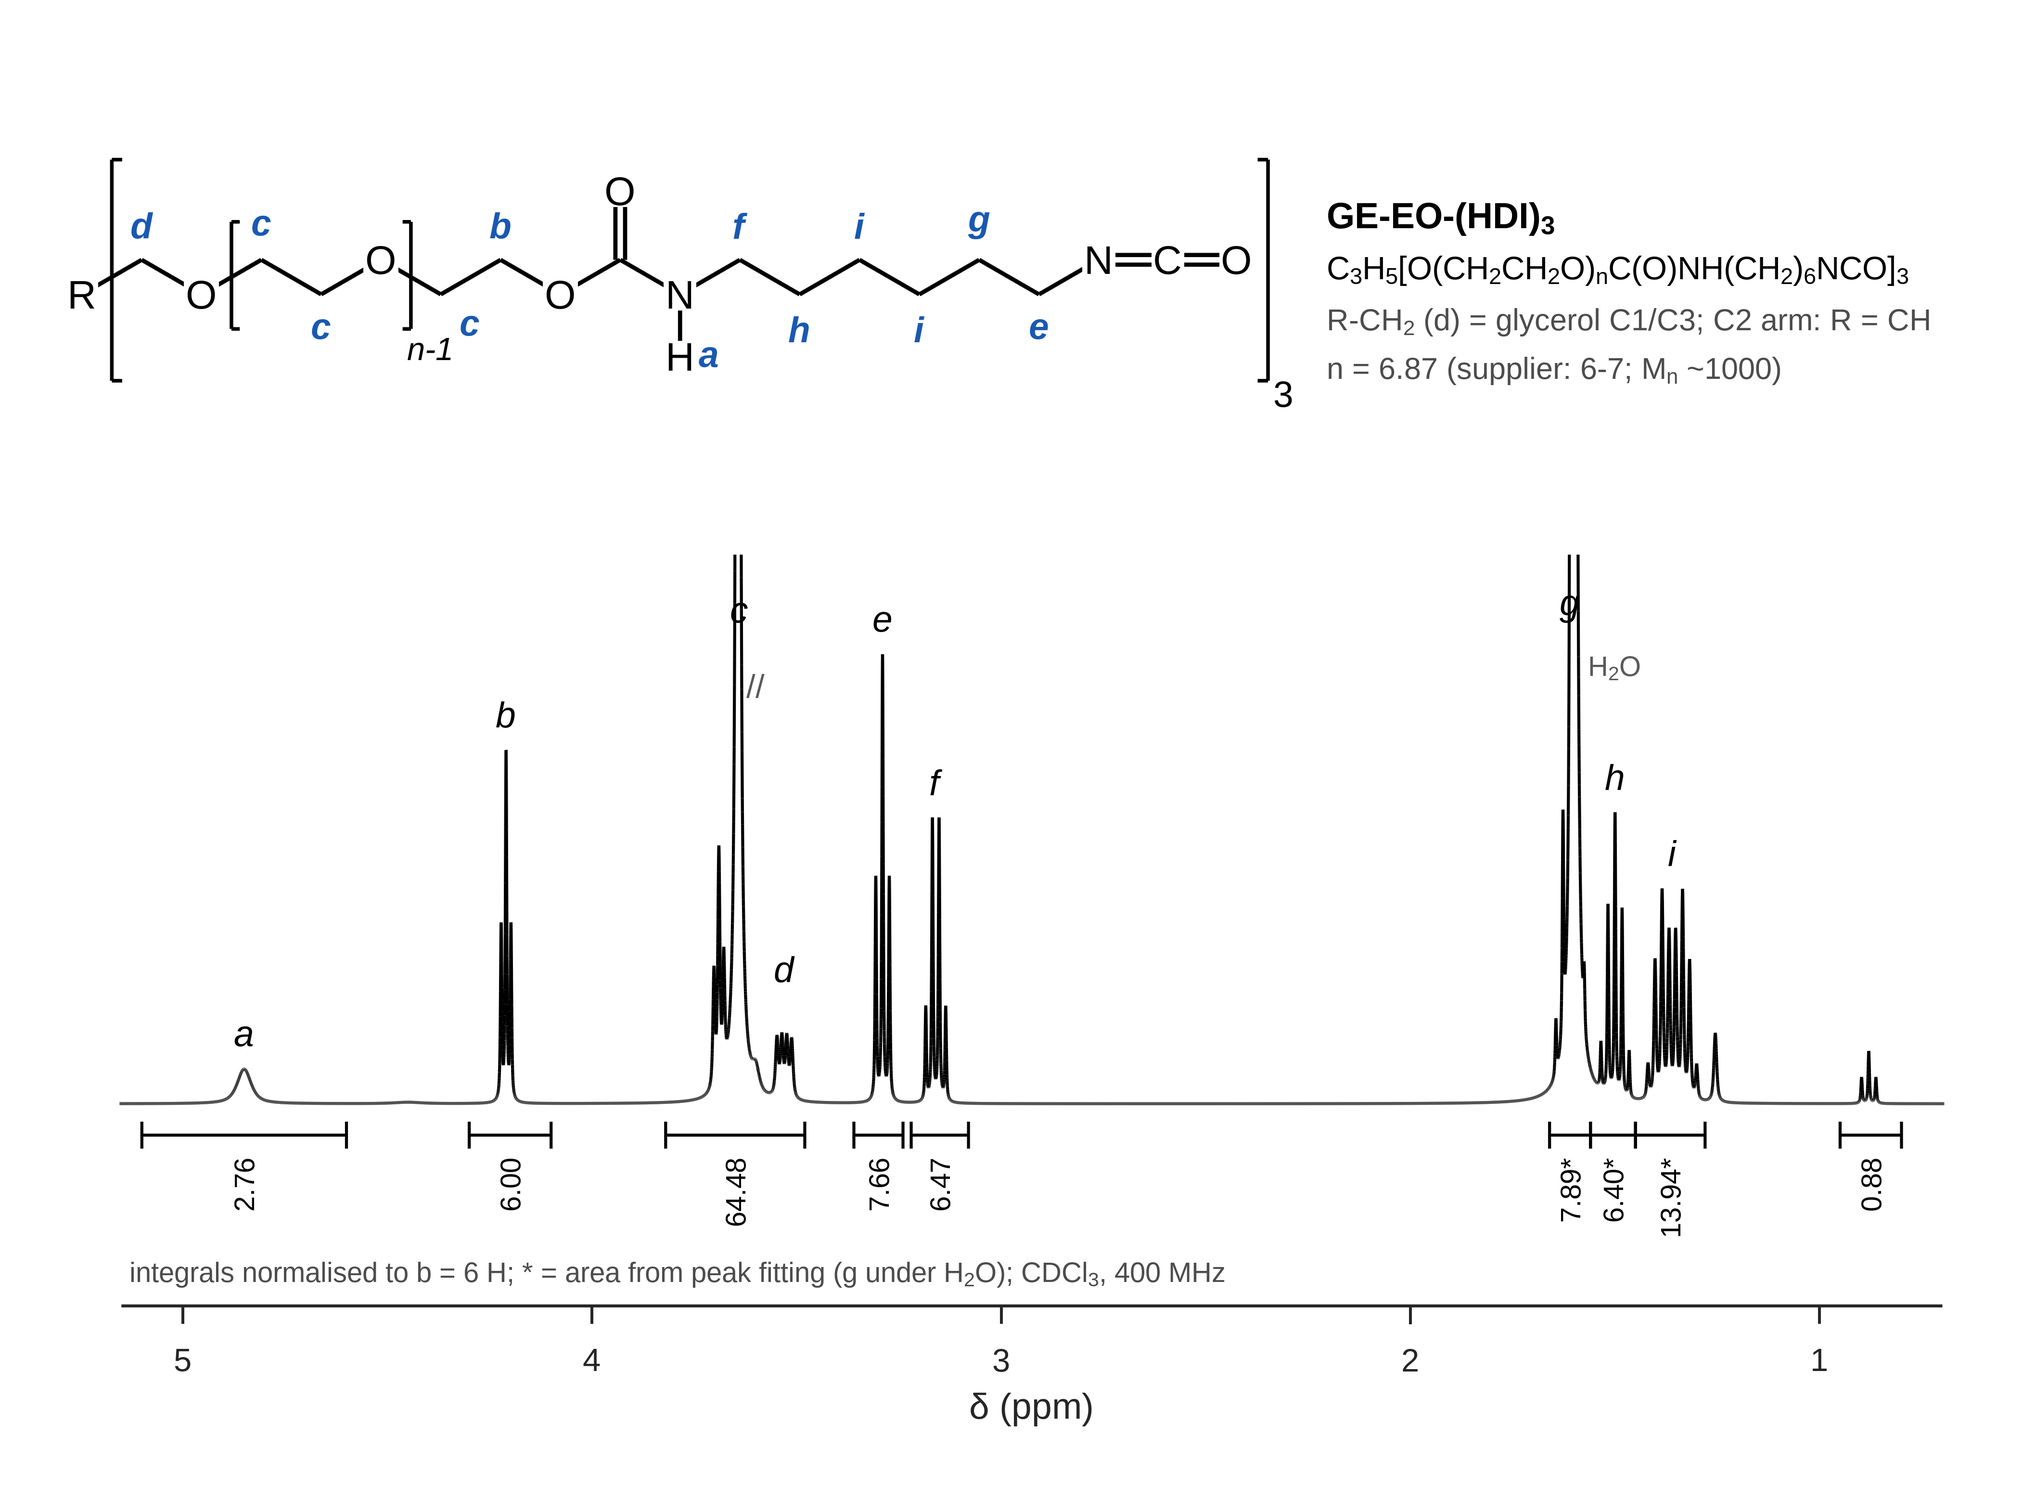
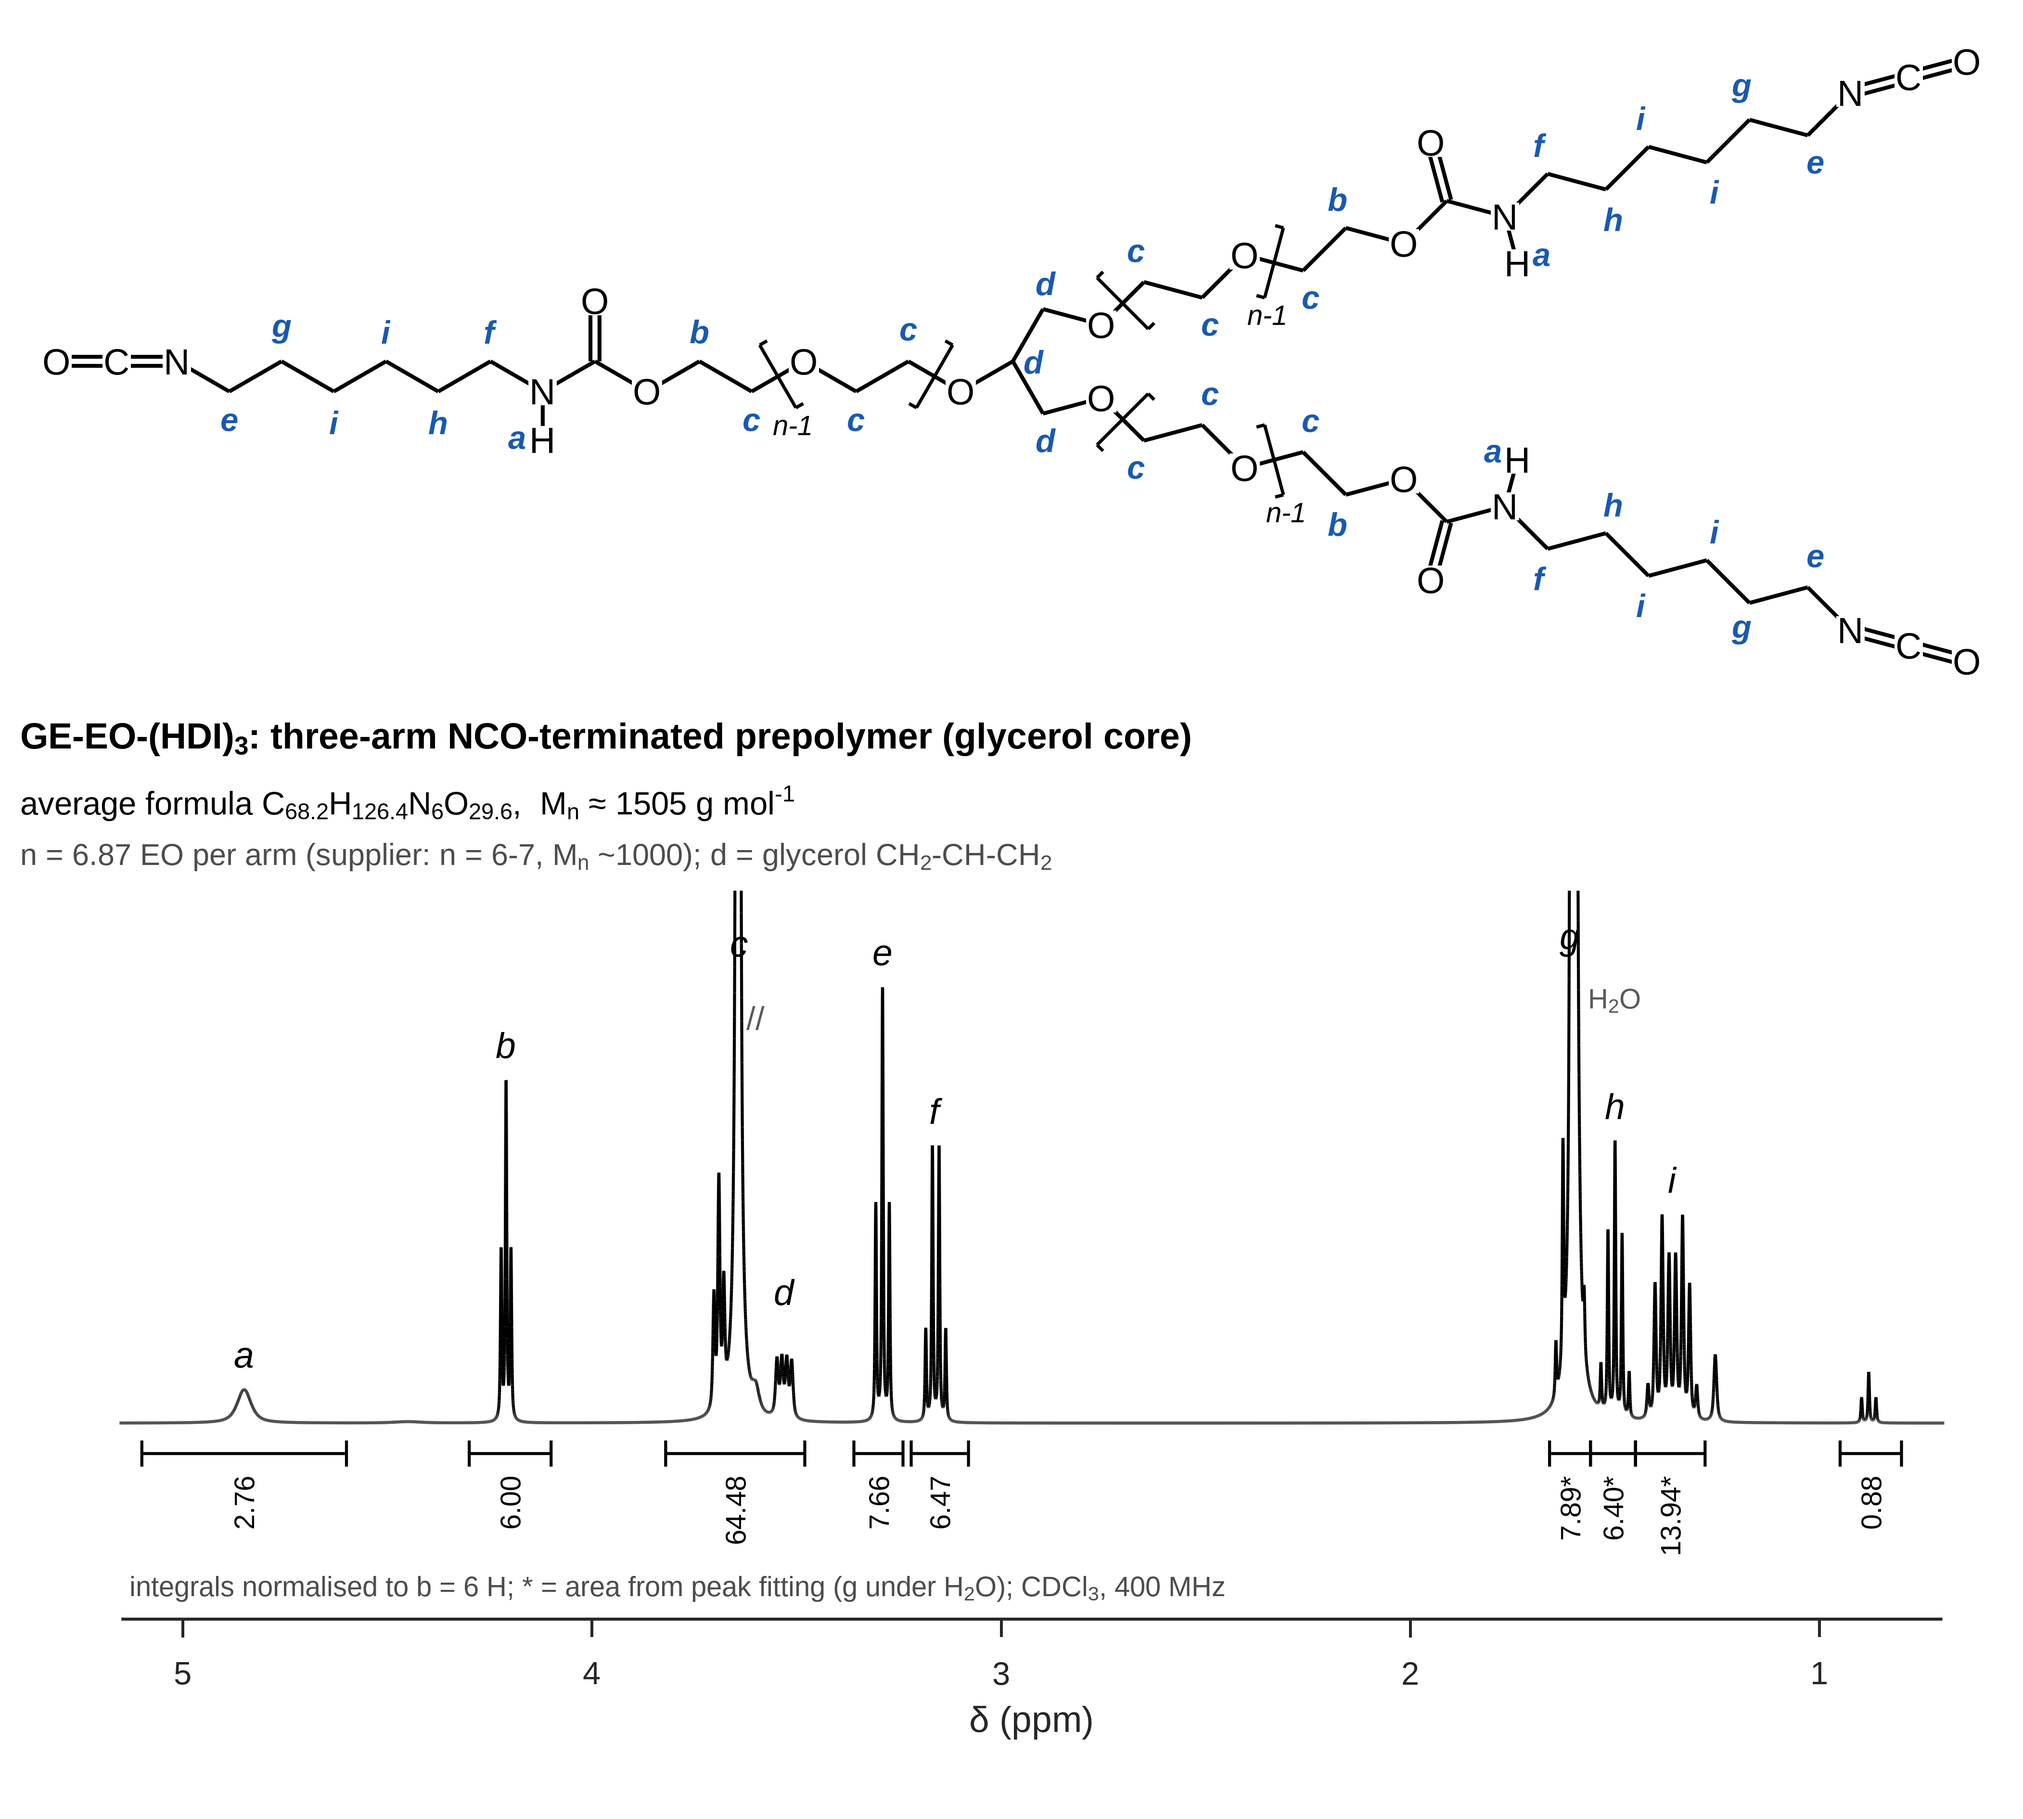
Draw the full star structure in the NMR figure
The structure panel now draws the glycerol (or pentaerythritol) core and
every arm explicitly, with the proton labels a-i on each arm, instead of
R-[arm]3 notation. The formula line gives the average molecular formula
and Mn rather than a repeat-unit formula; only the EO segment keeps an
(n-1) bracket.

Claude-Session: https://claude.ai/code/session_01H83UDbmYuCniDZK5ADfrPR

diff --git a/hdi_prepolymers/matlab/prepolymer_nmr_fit.m b/hdi_prepolymers/matlab/prepolymer_nmr_fit.m
@@ -492,15 +492,15 @@ x = R.x; yc = R.corrected;
 fitA = @(lab) fit_area_of(R.fitTable(2:end, :), lab) * R.scale;
 
 % ------------------------------------------------ Figure 1: structure + spectrum
-f1 = figure('Color', 'w', 'Units', 'centimeters', 'Position', [2 2 17.8 13.2], ...
-    'PaperUnits', 'centimeters', 'PaperPosition', [0 0 17.8 13.2], 'PaperSize', [17.8 13.2]);
+f1 = figure('Color', 'w', 'Units', 'centimeters', 'Position', [2 2 17.8 16.0], ...
+    'PaperUnits', 'centimeters', 'PaperPosition', [0 0 17.8 16.0], 'PaperSize', [17.8 16.0]);
 
 % (a) structure with proton labels
-axS = axes('Parent', f1, 'Units', 'normalized', 'Position', [0.02 0.66 0.96 0.32]);
+axS = axes('Parent', f1, 'Units', 'normalized', 'Position', [0.01 0.50 0.98 0.49]);
 draw_structure(axS, C, opt, FS, LW);
 
 % (b) spectrum
-axP = axes('Parent', f1, 'Units', 'normalized', 'Position', [0.06 0.13 0.90 0.50]);
+axP = axes('Parent', f1, 'Units', 'normalized', 'Position', [0.06 0.11 0.90 0.40]);
 view = x > 0.6 & x < 5.2;
 small = view & (x < 3.45 | x > 3.85) & (x < 1.56 | x > 1.66);
 top = max(yc(small));                       % scale to the small signals; PEG/H2O truncated
@@ -589,85 +589,119 @@ export_fig_files(f2, fullfile(fdir, [fname '_nmr_fits']));
 end
 
 function draw_structure(ax, C, opt, FS, LW)
-% skeletal formula of one arm with proton labels a-i (bond length 1, zigzag 120 deg)
+% Full skeletal structure of the star prepolymer (every arm drawn), proton labels a-i.
+% Bond length 1, 120 deg zigzag along each arm axis. Only the EO segment uses a bracket
+% (n-1 repeats; the last EO unit is drawn explicitly so that b and c can be labelled).
 axes(ax); cla(ax); hold(ax, 'on'); axis(ax, 'equal'); axis(ax, 'off');
-c30 = cosd(30);
-seq = {'C','d'; 'O',''; 'C','c'; 'C','c'; 'O',''; 'C','c'; 'C','b'; 'O',''; ...
-       'C',''; 'N','a'; 'C','f'; 'C','h'; 'C','i'; 'C','i'; 'C','g'; 'C','e'; 'N',''};
-P = zeros(size(seq, 1) + 1, 2);                % P(1) = core "R"
-for k = 1:size(seq, 1)
-    up = mod(k, 2) == 1;
-    P(k + 1, :) = P(k, :) + [c30, 0.5 * (2 * up - 1)];
+lw = LW * 1.3; blue = [0.10 0.35 0.70];
+isGE = strcmp(C.name(1:2), 'GE');
+if isGE                                        % glycerol: C2 (CH) at origin, C1/C3 (CH2)
+    core = [0 0; cosd(60) sind(60); cosd(300) sind(300)];
+    cbonds = [1 2; 1 3];
+    arms = [2 15; 3 -15; 1 180];               % [attachment atom, arm axis angle]
+else                                           % pentaerythritol: C plus four CH2
+    core = [0 0; cosd(45) sind(45); cosd(135) sind(135); cosd(225) sind(225); cosd(315) sind(315)];
+    cbonds = [1 2; 1 3; 1 4; 1 5];
+    arms = [2 15; 3 165; 4 195; 5 -15];
 end
-nN = size(P, 1);
-P(end + 1, :) = P(nN, :) + [1 0];              % C of NCO
-P(end + 1, :) = P(nN, :) + [2 0];              % O of NCO
-k_co = 9 + 1; k_nh = 10 + 1;                   % carbonyl C and amide N (indices in P)
-for k = 1:nN - 1
-    plot(ax, P(k:k + 1, 1), P(k:k + 1, 2), 'k', 'LineWidth', LW * 1.4);
+for k = 1:size(cbonds, 1)
+    plot(ax, core(cbonds(k, :), 1), core(cbonds(k, :), 2), 'k', 'LineWidth', lw);
 end
-dbl = @(p1, p2) plot(ax, [p1(1) p2(1); p1(1) p2(1)]' + [0 0; 0 0], ...
-    [p1(2) p2(2); p1(2) p2(2)]' + repmat([-0.07 0.07], 2, 1), 'k', 'LineWidth', LW * 1.4);
-dbl(P(nN, :), P(nN + 1, :)); dbl(P(nN + 1, :), P(nN + 2, :));
-pc = P(k_co, :);                                % C=O up
-plot(ax, [pc(1) - 0.07 pc(1) - 0.07], [pc(2) pc(2) + 0.9], 'k', 'LineWidth', LW * 1.4);
-plot(ax, [pc(1) + 0.07 pc(1) + 0.07], [pc(2) pc(2) + 0.9], 'k', 'LineWidth', LW * 1.4);
-pn = P(k_nh, :);                                % N-H down
-plot(ax, [pn(1) pn(1)], [pn(2) pn(2) - 0.75], 'k', 'LineWidth', LW * 1.4);
-atom = @(p, s) text(ax, p(1), p(2), s, 'FontSize', FS + 2, 'HorizontalAlignment', 'center', ...
-    'VerticalAlignment', 'middle', 'BackgroundColor', 'w', 'Margin', 0.5);
-atom(P(1, :), 'R');
-for k = 1:size(seq, 1)
-    if ~strcmp(seq{k, 1}, 'C'), atom(P(k + 1, :), seq{k, 1}); end
-end
-atom(P(nN + 1, :), 'C'); atom(P(nN + 2, :), 'O');
-atom(pc + [0 1.0], 'O'); atom(pn + [0 -0.9], 'H');
-% bracket around the repeating unit (atoms 3-5 of the arm = P(4:6))
-xb1 = mean(P(3:4, 1)); xb2 = mean(P(6:7, 1)); yb = [min(P(3:7, 2)) - 0.5, max(P(3:7, 2)) + 0.55];
-plot(ax, [xb1 + 0.12 xb1 xb1 xb1 + 0.12], [yb(1) yb(1) yb(2) yb(2)], 'k', 'LineWidth', LW * 1.2);
-plot(ax, [xb2 - 0.12 xb2 xb2 xb2 - 0.12], [yb(1) yb(1) yb(2) yb(2)], 'k', 'LineWidth', LW * 1.2);
-rep = 'n-1';
-text(ax, xb2 - 0.05, yb(1) - 0.12, rep, 'FontSize', FS, 'FontAngle', 'italic', 'VerticalAlignment', 'top');
-% big bracket around the whole arm, subscript = number of arms
-xa1 = mean(P(1:2, 1)); xa2 = P(end, 1) + 0.45; ya = [min(P(:, 2)) - 1.25, max(P(:, 2)) + 1.45];
-plot(ax, [xa1 + 0.15 xa1 xa1 xa1 + 0.15], [ya(1) ya(1) ya(2) ya(2)], 'k', 'LineWidth', LW * 1.2);
-plot(ax, [xa2 - 0.15 xa2 xa2 xa2 - 0.15], [ya(1) ya(1) ya(2) ya(2)], 'k', 'LineWidth', LW * 1.2);
-text(ax, xa2 + 0.08, ya(1), sprintf('%d', C.f), 'FontSize', FS + 1, 'VerticalAlignment', 'top');
-% proton labels (italic letters): above peaks, below valleys
-for k = 1:size(seq, 1)
-    L = seq{k, 2};
-    if isempty(L), continue, end
-    p = P(k + 1, :);
-    if k + 1 == k_nh
-        q = p + [0.42 -0.9];
-    elseif k == 6                               % CH2 right after the bracket: keep clear of n-1
-        q = p + [0.42 -0.45];
-    elseif P(k + 1, 2) > P(k, 2)
-        q = p + [0 0.5];
-    else
-        q = p + [0 -0.5];
+allP = core;
+seq = {'O',''; 'C','c'; 'C','c'; 'O',''; 'C','c'; 'C','b'; 'O',''; 'C','co'; 'N','a'; ...
+       'C','f'; 'C','h'; 'C','i'; 'C','i'; 'C','g'; 'C','e'; 'N',''};
+for a = 1:size(arms, 1)
+    S = core(arms(a, 1), :); phi = arms(a, 2);
+    nb = cbonds(any(cbonds == arms(a, 1), 2), :); nb = nb(nb ~= arms(a, 1));
+    back = sum(core(nb, :) - S, 1); back = back / norm(back);       % direction to core neighbours
+    cand = phi + [30 -30];
+    ang = arrayfun(@(t) acosd(max(-1, min(1, dot(back, [cosd(t) sind(t)])))), cand);
+    [~, ib] = min(abs(ang - 120)); sgn = sign(cand(ib) - phi);
+    P = S;
+    for k = 1:size(seq, 1)
+        t = phi + sgn * 30 * (-1) ^ (k - 1);
+        P(end + 1, :) = P(end, :) + [cosd(t) sind(t)]; %#ok<AGROW>
     end
-    text(ax, q(1), q(2), L, 'FontSize', FS + 1, 'FontAngle', 'italic', 'FontWeight', 'bold', ...
-        'Color', [0.10 0.35 0.70], 'HorizontalAlignment', 'center', 'VerticalAlignment', 'middle');
+    u = [cosd(phi) sind(phi)];
+    P(end + 1, :) = P(end, :) + u; P(end + 1, :) = P(end - 1, :) + 2 * u;   % N=C=O along the axis
+    nP = size(P, 1);
+    for k = 1:nP - 3
+        plot(ax, P(k:k + 1, 1), P(k:k + 1, 2), 'k', 'LineWidth', lw);
+    end
+    v = [-u(2) u(1)] * 0.075;
+    for k = nP - 2:nP - 1                       % double bonds N=C and C=O
+        plot(ax, P(k:k + 1, 1) + v(1), P(k:k + 1, 2) + v(2), 'k', 'LineWidth', lw);
+        plot(ax, P(k:k + 1, 1) - v(1), P(k:k + 1, 2) - v(2), 'k', 'LineWidth', lw);
+    end
+    opendir = @(k) -((P(k - 1, :) - P(k, :)) + (P(k + 1, :) - P(k, :))) / ...
+        norm((P(k - 1, :) - P(k, :)) + (P(k + 1, :) - P(k, :)));
+    % carbonyl C=O and amide N-H
+    kc = find(strcmp(seq(:, 2), 'co')) + 1; dco = opendir(kc); w = [-dco(2) dco(1)] * 0.075;
+    pO = P(kc, :) + dco;
+    plot(ax, [P(kc, 1) pO(1)] + w(1), [P(kc, 2) pO(2)] + w(2), 'k', 'LineWidth', lw);
+    plot(ax, [P(kc, 1) pO(1)] - w(1), [P(kc, 2) pO(2)] - w(2), 'k', 'LineWidth', lw);
+    kn = find(strcmp(seq(:, 2), 'a')) + 1; dnh = opendir(kn); pH = P(kn, :) + 0.8 * dnh;
+    plot(ax, [P(kn, 1) pH(1)], [P(kn, 2) pH(2)], 'k', 'LineWidth', lw);
+    % bracket around [CH2-CH2-O] (seq 2-4 = P 3-5), crossing bonds P2-P3 and P5-P6
+    for side = 1:2
+        if side == 1, q1 = P(2, :); q2 = P(3, :); else, q1 = P(5, :); q2 = P(6, :); end
+        M = (q1 + q2) / 2; bu = (q2 - q1) / norm(q2 - q1); bv = [-bu(2) bu(1)];
+        lip = bu * 0.14 * (2 * (side == 1) - 1);
+        L = [M + 0.6 * bv + lip; M + 0.6 * bv; M - 0.6 * bv; M - 0.6 * bv + lip];
+        plot(ax, L(:, 1), L(:, 2), 'k', 'LineWidth', LW * 1.1);
+        if side == 2
+            ends = [M + 0.6 * bv; M - 0.6 * bv]; [~, lo] = min(ends(:, 2));
+            text(ax, ends(lo, 1) + 0.05 * sign(u(1) + 0.01), ends(lo, 2) - 0.12, 'n-1', 'FontSize', FS - 1, ...
+                'FontAngle', 'italic', 'HorizontalAlignment', 'center', 'VerticalAlignment', 'top');
+        end
+    end
+    % atom symbols (white background hides the bond ends)
+    atom = @(p, s) text(ax, p(1), p(2), s, 'FontSize', FS + 1, 'HorizontalAlignment', 'center', ...
+        'VerticalAlignment', 'middle', 'BackgroundColor', 'w', 'Margin', 0.3);
+    for k = 1:size(seq, 1)
+        if ~strcmp(seq{k, 1}, 'C'), atom(P(k + 1, :), seq{k, 1}); end
+    end
+    atom(P(nP - 1, :), 'C'); atom(P(nP, :), 'O'); atom(pO, 'O'); atom(pH, 'H');
+    % proton labels
+    for k = 1:size(seq, 1)
+        L = seq{k, 2};
+        if isempty(L) || strcmp(L, 'co'), continue, end
+        if strcmp(L, 'a')
+            q = pH + 0.42 * [-dnh(2) dnh(1)] * sign(u(1) + 0.01);
+        else
+            q = P(k + 1, :) + 0.5 * opendir(k + 1);
+        end
+        text(ax, q(1), q(2), L, 'FontSize', FS, 'FontAngle', 'italic', 'FontWeight', 'bold', ...
+            'Color', blue, 'HorizontalAlignment', 'center', 'VerticalAlignment', 'middle');
+    end
+    allP = [allP; P; pO; pH]; %#ok<AGROW>
 end
-% formula and core definition
-x0 = P(end, 1) + 1.3;
-if strcmp(C.name(1:2), 'GE')
-    l1 = 'GE-EO-(HDI)_3';
-    l2 = 'C_3H_5[O(CH_2CH_2O)_nC(O)NH(CH_2)_6NCO]_3';
-    l3 = 'R-CH_2 (d) = glycerol C1/C3; C2 arm: R = CH';
-    l4 = sprintf('n = %.2f (supplier: 6-7; M_n ~1000)', opt.NominalN);
+% core labels d
+for k = 1:size(core, 1)
+    if ~isGE && k == 1, continue, end           % quaternary C carries no H
+    if isGE && k == 1, q = core(1, :) + [0.35 0]; else, q = core(k, :) + 0.5 * core(k, :) / norm(core(k, :)) .* [0.2 1]; end
+    text(ax, q(1), q(2), 'd', 'FontSize', FS, 'FontAngle', 'italic', 'FontWeight', 'bold', ...
+        'Color', blue, 'HorizontalAlignment', 'center', 'VerticalAlignment', 'middle');
+end
+% name and average molecular formula (no repeat-unit notation)
+EO = opt.NominalN * C.f;
+if isGE
+    nC = 27 + 2 * EO; nH = 44 + 4 * EO; nO = 9 + EO; nN = 6;
+    t1 = 'GE-EO-(HDI)_3: three-arm NCO-terminated prepolymer (glycerol core)';
+    t3 = sprintf('n = %.2f EO per arm (supplier: n = 6-7, M_n ~1000); d = glycerol CH_2-CH-CH_2', opt.NominalN);
 else
-    l1 = 'PE-EO-(HDI)_4';
-    l2 = 'C[CH_2O(CH_2CH_2O)_nC(O)NH(CH_2)_6NCO]_4';
-    l3 = 'R = quaternary C; CH_2 (d) of the core';
-    l4 = sprintf('a+b+c+d EO ~15 (n = %.2f per arm)', opt.NominalN);
+    nC = 37 + 2 * EO; nH = 60 + 4 * EO; nO = 12 + EO; nN = 8;
+    t1 = 'PE-EO-(HDI)_4: four-arm NCO-terminated prepolymer (pentaerythritol core)';
+    t3 = sprintf('n = %.2f EO per arm (15/4 EO/OH, M_n ~797); d = C(CH_2O)_4', opt.NominalN);
 end
-text(ax, x0, 1.1, l1, 'FontSize', FS + 1, 'FontWeight', 'bold');
-text(ax, x0, 0.35, l2, 'FontSize', FS);
-text(ax, x0, -0.4, l3, 'FontSize', FS - 0.5, 'Color', [0.3 0.3 0.3]);
-text(ax, x0, -1.1, l4, 'FontSize', FS - 0.5, 'Color', [0.3 0.3 0.3]);
-xlim(ax, [-0.6 x0 + 9.5]); ylim(ax, [ya(1) - 0.3, ya(2) + 0.3]);
+Mn = C.M_core + C.M_EO * EO + C.M_HDI * C.f;
+t2 = sprintf('average formula C_{%.1f}H_{%.1f}N_{%d}O_{%.1f},  M_n \\approx %.0f g mol^{-1}', nC, nH, nN, nO, Mn);
+xmin = min(allP(:, 1)) - 0.6; xmax = max(allP(:, 1)) + 0.6;
+ymin = min(allP(:, 2)) - 0.7; ymax = max(allP(:, 2)) + 0.6;
+text(ax, xmin, ymin - 0.3, t1, 'FontSize', FS + 1, 'FontWeight', 'bold', 'VerticalAlignment', 'top');
+text(ax, xmin, ymin - 1.35, t2, 'FontSize', FS, 'VerticalAlignment', 'top');
+text(ax, xmin, ymin - 2.3, t3, 'FontSize', FS - 0.5, 'Color', [0.3 0.3 0.3], 'VerticalAlignment', 'top');
+xlim(ax, [xmin xmax]); ylim(ax, [ymin - 3.3, ymax]);
 hold(ax, 'off');
 end
 
